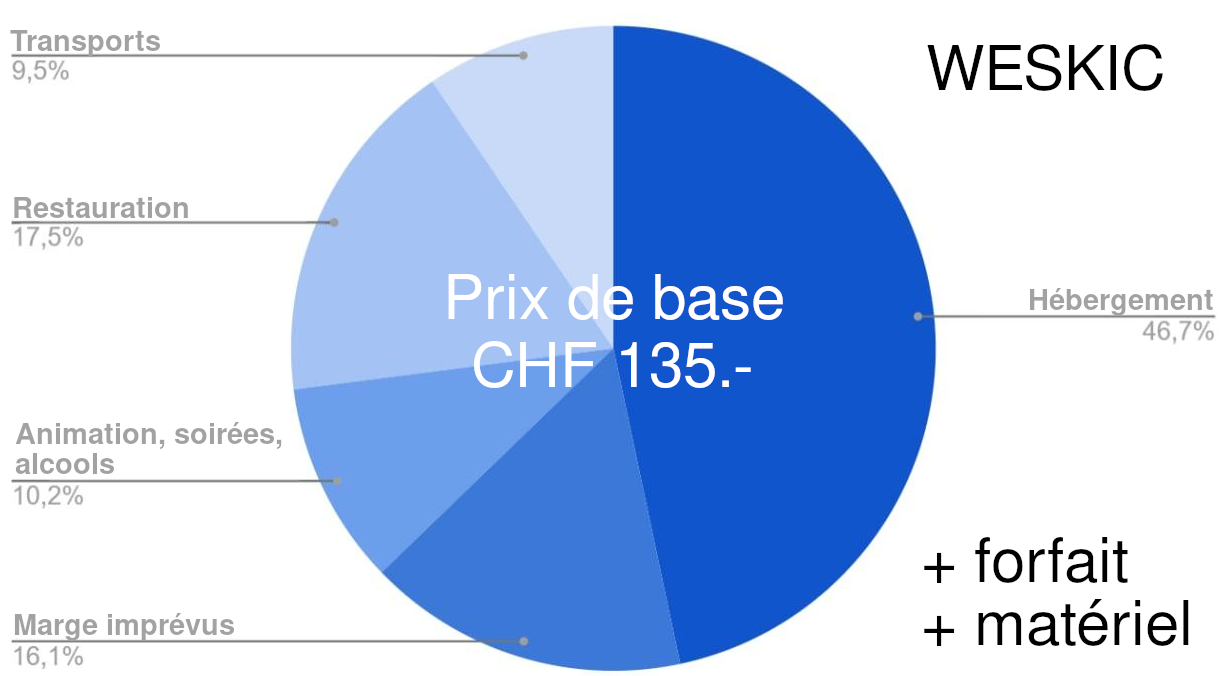
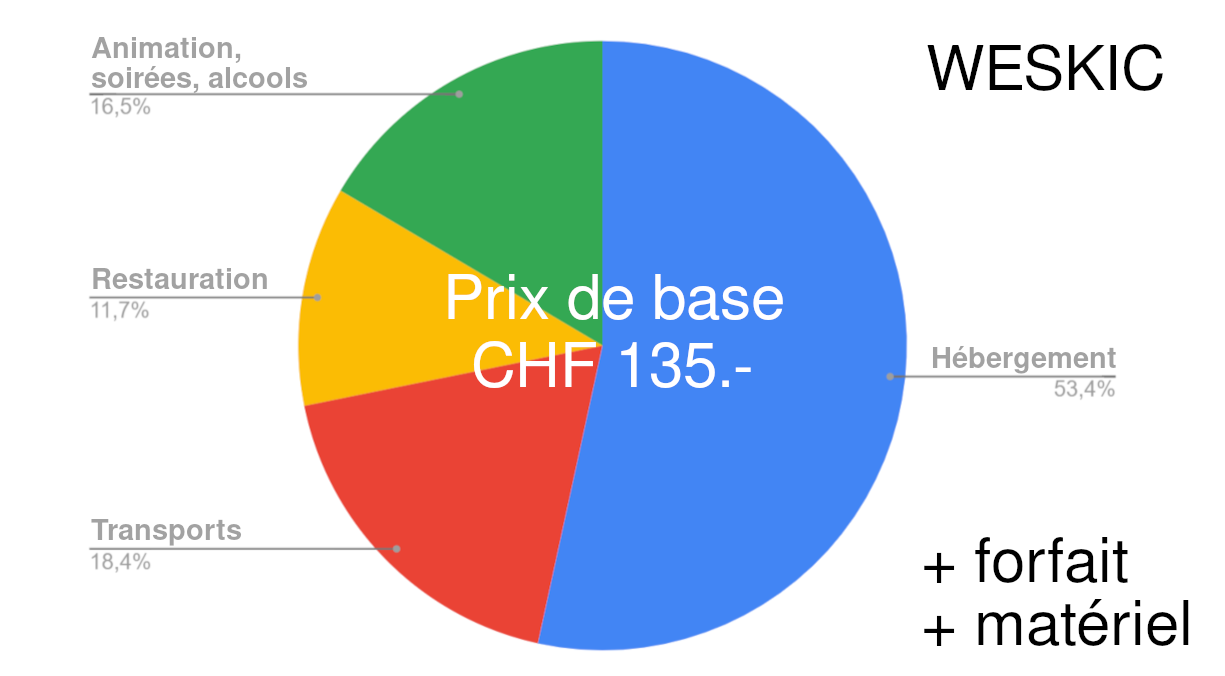
Changed price-graph, and few questions

diff --git a/weskic-frontend/src/components/QaA.vue b/weskic-frontend/src/components/QaA.vue
@@ -10,17 +10,19 @@
         <li><strong>"ÉTAPE 0" - Connexion avec Tequila</strong>
           <p>Vérification de la date d'inscription. Une fois connecté ta place est
             garantie pendent une heure jusqu'à ce que tu termines l'étape suivante.<br>
-            Si toutes les places sont prises tu seras ajouté à une liste d'attente et tu seras contacté pour compléter ton inscription.</p></li>
+            Si toutes les places sont prises tu seras ajouté à une liste d'attente et tu seras contacté par Telegram pour compléter ton inscription.</p></li>
         <li><strong>ÉTAPE 1 - Informations personnelles</strong>
           <p>C'est ici que tu préciseras si tu as des allergies, des contraintes alimentaires ou des remarques.
-            On te demandera aussi un contact d'urgence, de signer une décharge et de fournir deux documents indispensables :
+            On te demandera aussi un contact d'urgence, de signer une décharge, de rejoindre un channel Telegram, et de fournir deux documents indispensables :
             une <strong>pièce d'identité</strong> et ta <strong>carte d'assurance</strong>.</p></li>
         <li><strong>ÉTAPE 2 - Paiement</strong>
-          <p>Les différents moyens de paiement ne sont pas encore fixés mais il y aura au moins la possibilité de payer en ligne par CB. Ce paragraphe sera mis à jour ultérieurement.<br><strong>Attention: vous avez 5 jours pour
-            effectuer votre paiement à compter de votre première connexion Tequila. Votre place n'est plus
-            garantie après ce délai.</strong></p></li>
+          <p>Une fois qu'on aura validé l'étape 1, tu seras notifié par Telegram pour passer au paiement.<br>
+            Les différents moyens de paiement ne sont pas encore fixés mais il y aura au moins la possibilité de payer
+            en ligne par CB. Ce paragraphe sera mis à jour ultérieurement.<br>
+            <strong>Attention: vous avez 5 jours pour effectuer votre paiement à compter de la validation de l'étape 1.
+              Votre place n'est plus garantie après ce délai.</strong></p></li>
         <li><strong>ÉTAPE 3 - Matériel et compléments</strong>
-          <p>À partir de cette étape il faut attendre février. On vous donnera plus d'informations pour la location (facultative et à votre charge) de matériel de ski.</p></li>
+          <p>À partir de cette étape il faut attendre février. On vous donnera plus d'informations pour la location (facultative et à votre charge) de matériel de ski et snow.</p></li>
         <li><strong>ÉTAPE 4 - Placement dans les chambres</strong>
           <p>Tu pourras choisir ta chambre librement sur le site de réservation.
             Les chambres ne seront pas mixtes et les noms des occupants ne seront pas affichés.
@@ -36,7 +38,7 @@
         <a href="mailto:hugues.devimeux@epfl.ch,paul.madelenat@epfl.ch">Hugues Devimeux et Paul Madelénat</a>.</p>
     </InfoQuestion>
 
-    <InfoQuestion class="question" question="Qu'est-ce que le prix de base de CHF 135.- ?">
+    <InfoQuestion class="question" question="Qu'est-ce que le prix de base de CHF 135.- ? Qu'est-ce qui est compris ?">
       <div class="columns" style="">
         <div class="column">
           <img class="" src="../assets/price-graph.png"  alt=""/>
@@ -44,11 +46,11 @@
         <div class="column">
           <h5 class="subtitle">Le prix de base</h5>
           <p>C'est le prix minimal du séjour tout compris. Ci-contre une illustration qui représente les
-            parts qui composent ce prix. Le prix de base n'inclue pas deux options : le forfait de ski et l'éventuelle location de matériel.</p>
+            parts qui composent ce prix. Le prix de base n'inclut pas deux options : le forfait de ski et l'éventuelle location de matériel.</p>
 
           <h5 class="subtitle">Forfait de ski</h5>
           <p>
-            Tu n'es pas obligé de prendre un abonnement, il y d'autres activités possibles et tu es libre à vous d'explorer la station.
+            Tu n'es pas obligé de prendre un abonnement, il y d'autres activités possibles et tu es libre d'explorer la station.
             Pour ceux qui veulent l'abonnement on propose de prendre un ou deux jours. Nous afficherons les prix des forfaits très prochainement.
           </p>
 
@@ -56,10 +58,6 @@
           <p>Pour le matériel on vous expliquera tout d'ici février, en gros on gère la logistique pour vous même si c'est vôtre matériel.</p>
         </div>
       </div>
-    </InfoQuestion>
-
-    <InfoQuestion class="question" question="Comment annuler ma réservation ?">
-      <p>Les termes d'annulations seront décidés à la prochaine réunion du comité : mardi 23 novembre.</p>
     </InfoQuestion>
 
     <h2 class="title questionsSectionTitle">Activités</h2>
@@ -81,6 +79,10 @@
 
     <InfoQuestion class="question" question="Est-ce que je dois savoir skier pour venir ?">
       <p>Même pas ! Notre incroyable Picsoucoach Maxime est également monitrice de ski. Elle organisera des cours gratuits pour débutants. Raison de plus de venir ;)</p>
+    </InfoQuestion>
+
+    <InfoQuestion class="question" question="... et pour le snow ?">
+      <p>Nous ne proposerons pas de cours de snowboard mais si tu sais déjà en faire tu pourras en louer.</p>
     </InfoQuestion>
 
   </div>

diff --git a/weskic-frontend/src/components/registration/PersonalInfo.vue b/weskic-frontend/src/components/registration/PersonalInfo.vue
@@ -77,7 +77,10 @@
             <b-checkbox v-model="diets" native-value="vegetarian" class="marginBottom10">
               Végétarien
             </b-checkbox>
-            <b-checkbox v-model="diets" native-value="no-porc" class="marginBottom10">
+            <b-checkbox v-model="diets" native-value="gluten-free" class="marginBottom10">
+              Sans-gluten
+            </b-checkbox>
+            <b-checkbox v-model="diets" native-value="pork-free" class="marginBottom10">
               Sans-porc
             </b-checkbox>
             <b-checkbox v-model="diets" native-value="no-cheese" class="marginBottom10">

diff --git a/weskic-frontend/src/components/InfoQuestion.vue b/weskic-frontend/src/components/InfoQuestion.vue
@@ -36,7 +36,7 @@ export default {
 <style scoped>
 
 .is-important {
-  background-color: #f14668;
+  background-color: #ffe08a;
 }
 
 </style>
